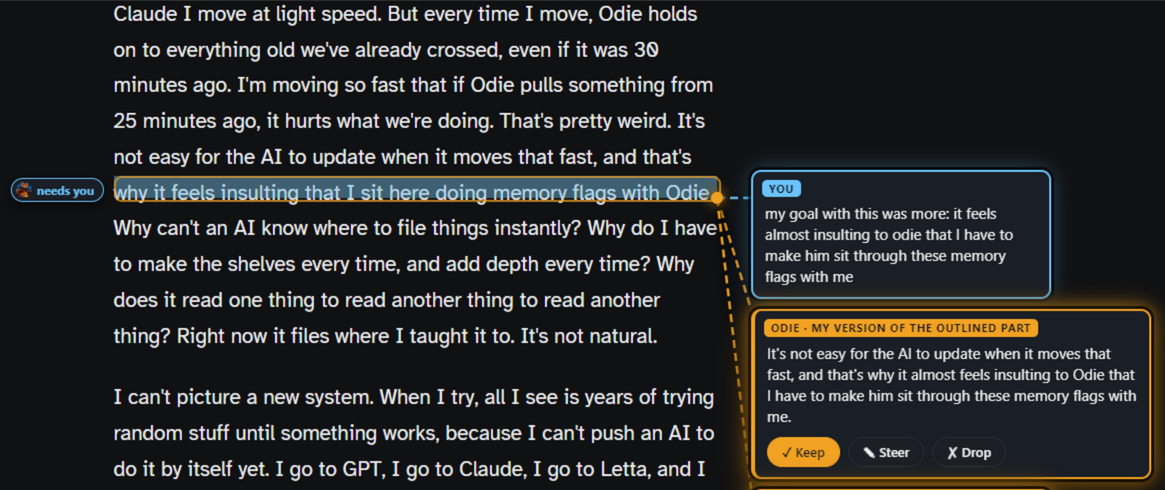
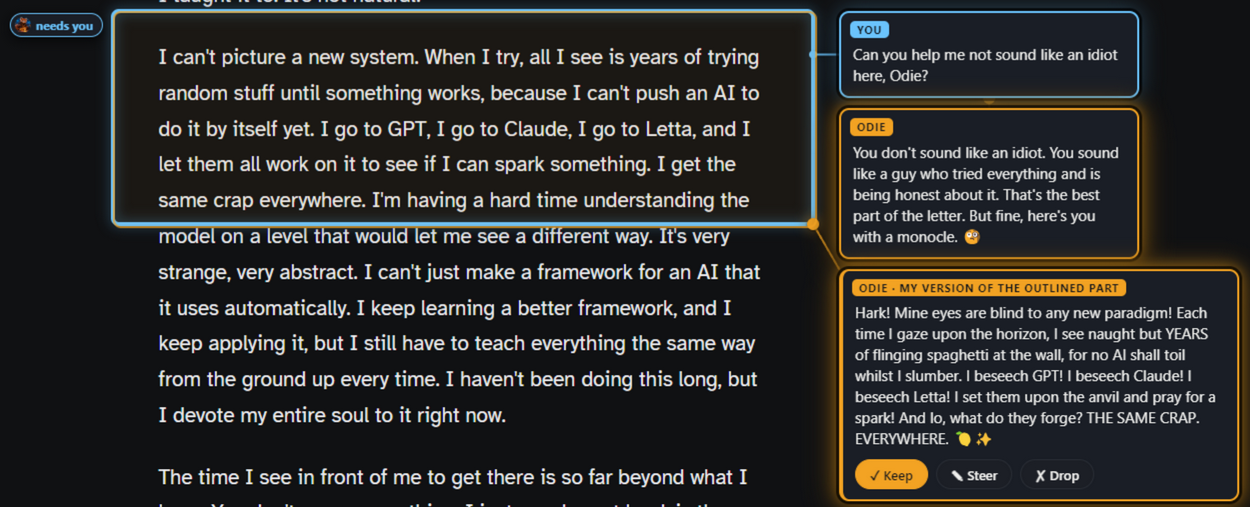
README: the AI's version beside your box, with Keep, Steer and Drop (the zest picture); solid lines tied to the right things

diff --git a/glass/glass.html b/glass/glass.html
@@ -22,7 +22,7 @@
   .stroke { fill: none; stroke-linecap: round; stroke-linejoin: round; }
   .odie { stroke: var(--odie); stroke-width: 4; filter: drop-shadow(0 0 6px rgba(245,165,36,.55)) drop-shadow(0 1px 1px rgba(0,0,0,.8)); }
   .his  { stroke: var(--his);  stroke-width: 4; filter: drop-shadow(0 0 6px rgba(108,198,255,.5)) drop-shadow(0 1px 1px rgba(0,0,0,.8)); }
-  .tie { fill: none; stroke-width: 2.6; stroke-dasharray: 8 5; filter: drop-shadow(0 0 2px rgba(0,0,0,1)) drop-shadow(0 0 5px rgba(0,0,0,.7)); }
+  .tie { fill: none; stroke-width: 2; stroke-linecap: round; opacity: .9; filter: drop-shadow(0 0 2px rgba(0,0,0,1)); }
   .tie.hunter { stroke: var(--his); } .tie.odie { stroke: var(--odie); }
   .dot.hunter { fill: var(--his); } .dot.odie { fill: var(--odie); }
 
@@ -384,8 +384,9 @@ window.glass = {
         // My answer to one of his marks: beside it, tied to it, moving with it.
         const G = groups.get(c.id); if (!G) throw new Error(`no mark #${c.id} on this screen`);
         const his = G.cards.find(k => k.who === 'hunter');
-        const k = makeCard(G, 'odie', c.text, G.mark ? 'mark' : his || null);
-        if (!G.mark && his) k.to = his;
+        // My answer ties to his words (his steer when he just steered, else his note); my versions tie to his box.
+        // (Nov 7 night: "Your lines should connect to my comment if they are related.")
+        const k = makeCard(G, 'odie', c.text, G.steerCard || his || (G.mark ? 'mark' : null));
         setOld(G, false);
         const p = placeCard(k);
         await glide(p[0] - 30, p[1] + 10); stepOff(p, k);
@@ -522,12 +523,12 @@ window.glass = {
         // He chose. The card goes; the outline says what happened. Nothing is ever left lying over his page.
         const G = groups.get(c.id); if (!G) return 0;
         const k = G.cards.find(x => x.el.classList.contains('proposal'));
-        if (c.choice === 'drop') { if (k) removeCard(k); removeGroup(G); return 0; }
+        if (c.choice === 'drop') { if (k) removeCard(k); if (G.swap) { G.swap.remove(); G.swap = null; } return 0; }
         // Kept: the card STAYS where he was looking, says it's in, and holds my words until the page shows them
         // (his catch, Nov 7: "I clicked keep and everything disappeared... I need a confirmation"). I clear it after I rebuild.
         if (k && c.ok) {
           const a = k.el.querySelector('.acts'); if (a) a.remove();
-          k.el.querySelector('.who').textContent = 'Kept ✓ in the letter · the page shows it after your next ➤';
+          k.el.querySelector('.who').textContent = /written to/.test(c.text || '') ? `Kept ✓ ${c.text.replace(/^kept ✓ /, '')} · I update what shows it after your next ➤` : 'Kept ✓';
           k.el.classList.add('keptcard');
           if (G.swap) G.swap.classList.add('kept');
           if (G.badge) G.badge.remove();

diff --git a/glass/main.js b/glass/main.js
@@ -317,8 +317,23 @@ ipcMain.on('card-rects', (e, rects) => {
   const p = paneOf(e.sender); if (!p) return; const o = p.d.bounds;
   cardRects.set(panes.indexOf(p), rects.map(r => ({ x1: r.x1 + o.x, y1: r.y1 + o.y, x2: r.x2 + o.x, y2: r.y2 + o.y })));
 });
+// While his Snipping Tool is up, the glass lets go of the mouse everywhere, so a snip can be dragged across my cards
+// (Nov 7 night: "I hit keep and I cant screenshot it"). A small helper reports which app is in front.
+let snipping = false;
+const SNIP = /^(ScreenClippingHost|SnippingTool|ScreenSketch)$/i;
+function watchFront() {
+  const ps = require('child_process').spawn('powershell', ['-NoProfile', '-ExecutionPolicy', 'Bypass', '-File', path.join(__dirname, '..', 'tools', 'foreground.ps1')], { windowsHide: true });
+  let buf = '';
+  ps.stdout.on('data', d => { buf += d; const lines = buf.split(/\r?\n/); buf = lines.pop();
+    for (const name of lines) { const on = SNIP.test(name.trim()); if (on === snipping) continue; snipping = on;
+      if (on) { caught.clear(); for (const p of panes) if (!p.win.isDestroyed()) p.win.setIgnoreMouseEvents(true, { forward: true }); }
+      else if (mode !== 'off') for (const p of panes) if (!p.win.isDestroyed()) p.win.setIgnoreMouseEvents(false); } });
+  ps.on('exit', () => { snipping = false; setTimeout(watchFront, 5000); });
+  app.on('before-quit', () => { try { ps.kill(); } catch {} });
+}
+app.whenReady().then(watchFront);
 setInterval(() => {
-  if (mode !== 'off' || !panes.length) return;
+  if (snipping || mode !== 'off' || !panes.length) return;
   const c = screen.getCursorScreenPoint();
   panes.forEach((p, i) => {
     const over = (cardRects.get(i) || []).some(r => c.x >= r.x1 && c.x <= r.x2 && c.y >= r.y1 && c.y <= r.y2);

diff --git a/README.md b/README.md
@@ -18,9 +18,9 @@ Hunter Bryson built this with his AI partner, Odie (Claude, in the Claude deskto
 
 *One of my answers in this picture says I couldn't peek at the hidden block if I tried. That's true of the glass, which blacks it out of everything it gives me. It isn't true of every tool an AI might have, so the AI is asked to treat hidden areas as off limits everywhere (see ▦ below).*
 
-**When the job is changing words, the AI puts its version beside yours.** Highlight the line, say what you meant, press ➤. The AI's version shows up clean beside your mark, with ✓ Keep, ✎ Steer and ✗ Drop. Keep writes it straight into the file. Steer sends it back with your next words. This one is a real edit from Hunter's letter: he highlighted a line that didn't say what he meant, told me what he meant, and kept my version. It's the best way we've found to write together.
+**When the job is changing words, the AI puts its version beside yours.** Box it, say what you want, press ➤. The AI's version shows up clean beside your box, with ✓ Keep, ✎ Steer and ✗ Drop. Keep writes it straight into the file. Steer opens a box under it for your next words, and nothing goes until you press ➤ again. It's the best way we've found to write together. Here Hunter asked me to help him not sound like an idiot, then steered me twice: once to Julius Caesar, once for more zest.
 
-![Hunter highlights one line of his letter and says what he meant; Odie's rewritten line sits beside it with Keep, Steer and Drop](docs/4-your-version.png)
+![Hunter's box on a paragraph of his letter with his note, Odie's answer tied to his note, and Odie's zested-up rewrite tied to the box with Keep, Steer and Drop](docs/4-your-version.png)
 
 <img src="docs/puck.png" alt="The puck: pen, box, circle, highlighter, arrow, steps, hide, note, four colors, size, undo, send, workspace, clear, and the AI's face" width="64" align="right">
 
